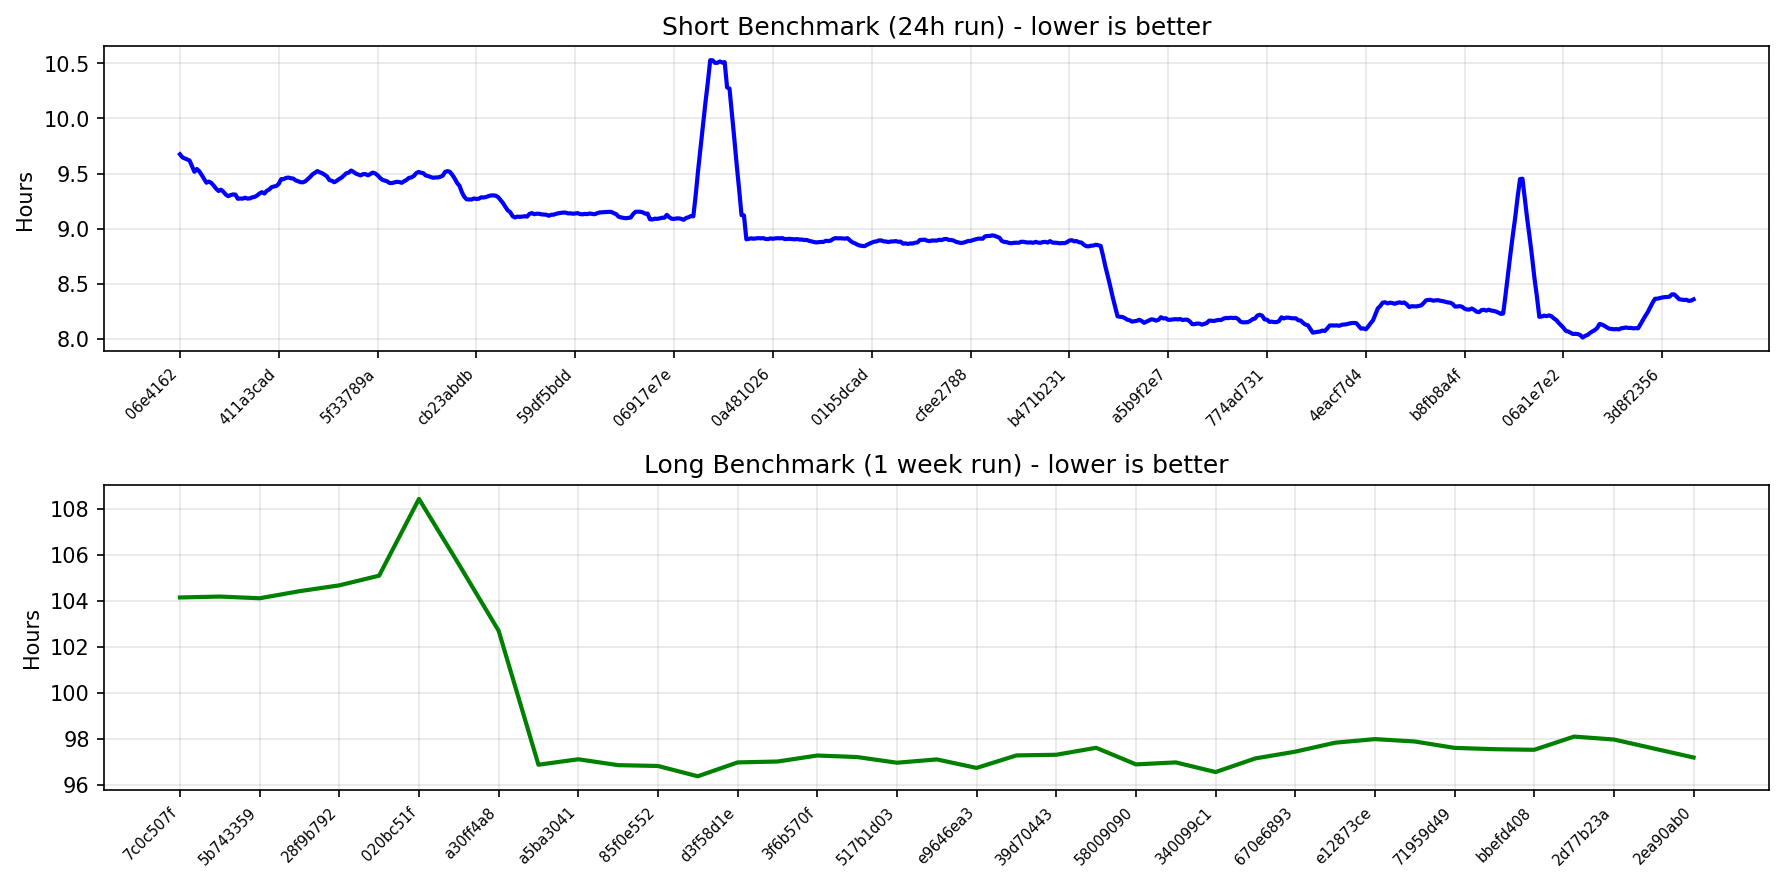
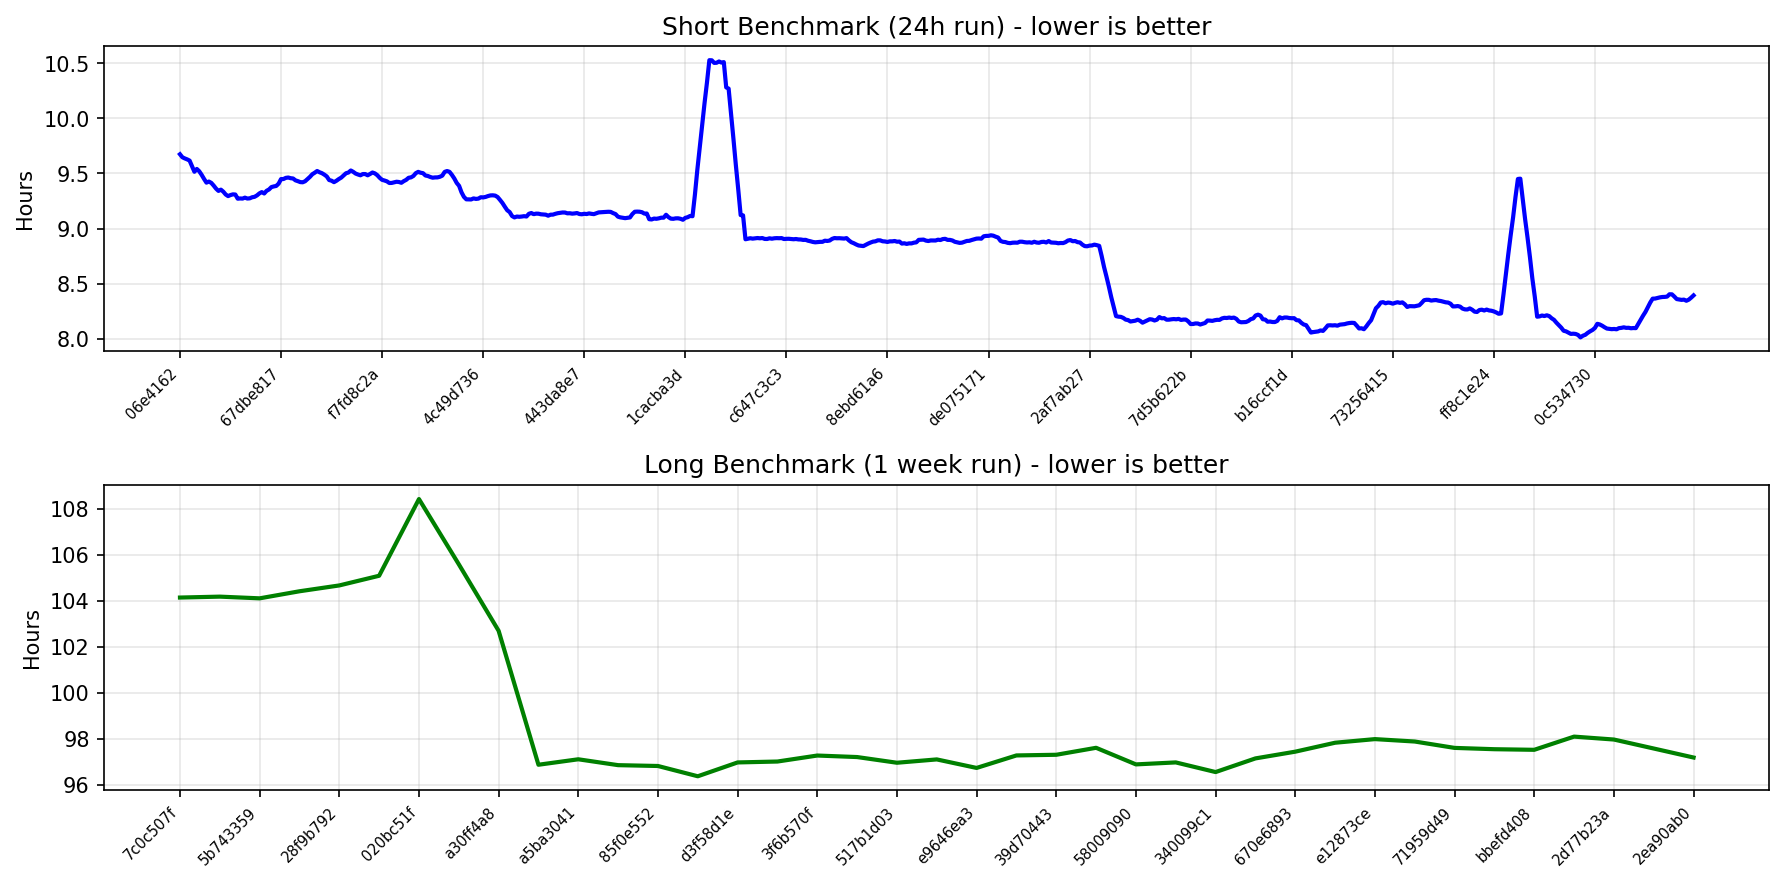
chore: update short benchmark Readme

diff --git a/README.md b/README.md
@@ -12,11 +12,11 @@ This repository contains various eth1 import benchmark metrics.
 
 | Generated At | Baseline SHA | Contender SHA | Baseline Time | Contender Time | Time Delta |
 |--------------|--------------|---------------|---------------|----------------|------------|
+| 2026-05-05 18:51:49 | [14941c67](https://github.com/status-im/nimbus-eth1/commit/14941c67) | [98188ef7](https://github.com/status-im/nimbus-eth1/commit/98188ef7) | 8h24m45s | 8h24m56s | 10s, 0.03% |
 | 2026-05-05 10:12:12 | [342bd3cb](https://github.com/status-im/nimbus-eth1/commit/342bd3cb) | [14941c67](https://github.com/status-im/nimbus-eth1/commit/14941c67) | 8h22m3s | 8h24m45s | 2m42s, 0.54% |
 | 2026-05-05 01:36:22 | [d70f65d4](https://github.com/status-im/nimbus-eth1/commit/d70f65d4) | [342bd3cb](https://github.com/status-im/nimbus-eth1/commit/342bd3cb) | 8h21m42s | 8h22m3s | 20s, 0.07% |
 | 2026-05-04 17:00:55 | [08a7361b](https://github.com/status-im/nimbus-eth1/commit/08a7361b) | [d70f65d4](https://github.com/status-im/nimbus-eth1/commit/d70f65d4) | 8h13m30s | 8h21m42s | 8m11s, 1.66% |
 | 2026-05-04 08:32:31 | [d9ac2bc8](https://github.com/status-im/nimbus-eth1/commit/d9ac2bc8) | [08a7361b](https://github.com/status-im/nimbus-eth1/commit/08a7361b) | 8h17m5s | 8h13m30s | -3m35s, -0.72% |
-| 2026-05-04 00:00:02 | [3f846747](https://github.com/status-im/nimbus-eth1/commit/3f846747) | [d9ac2bc8](https://github.com/status-im/nimbus-eth1/commit/d9ac2bc8) | 8h20m44s | 8h17m5s | -3m38s, -0.73% |
 
 ## Latest 5 Long Benchmarks (1 Week Run)
 
